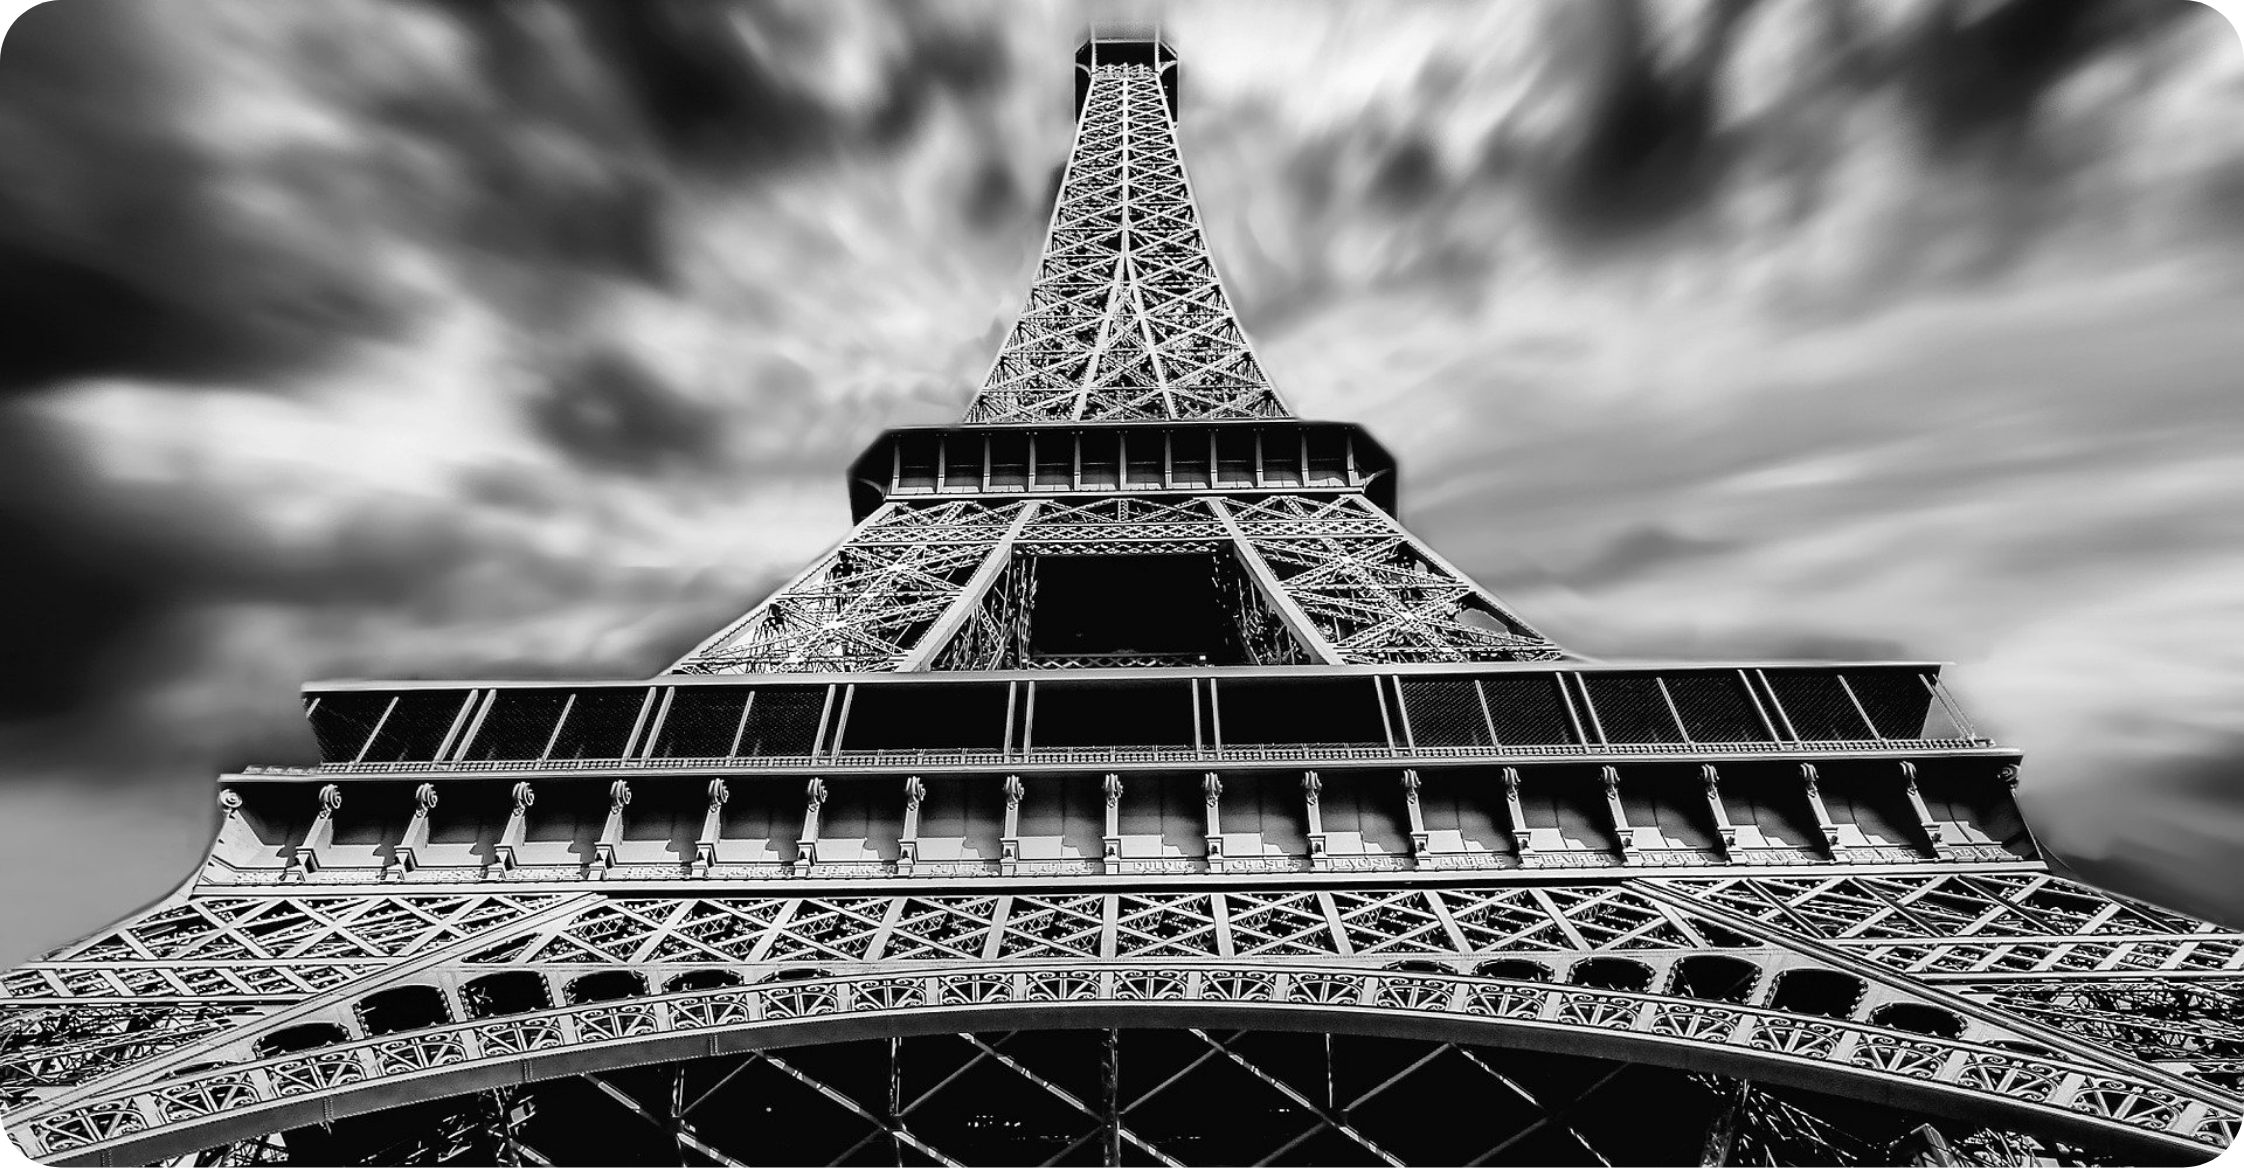
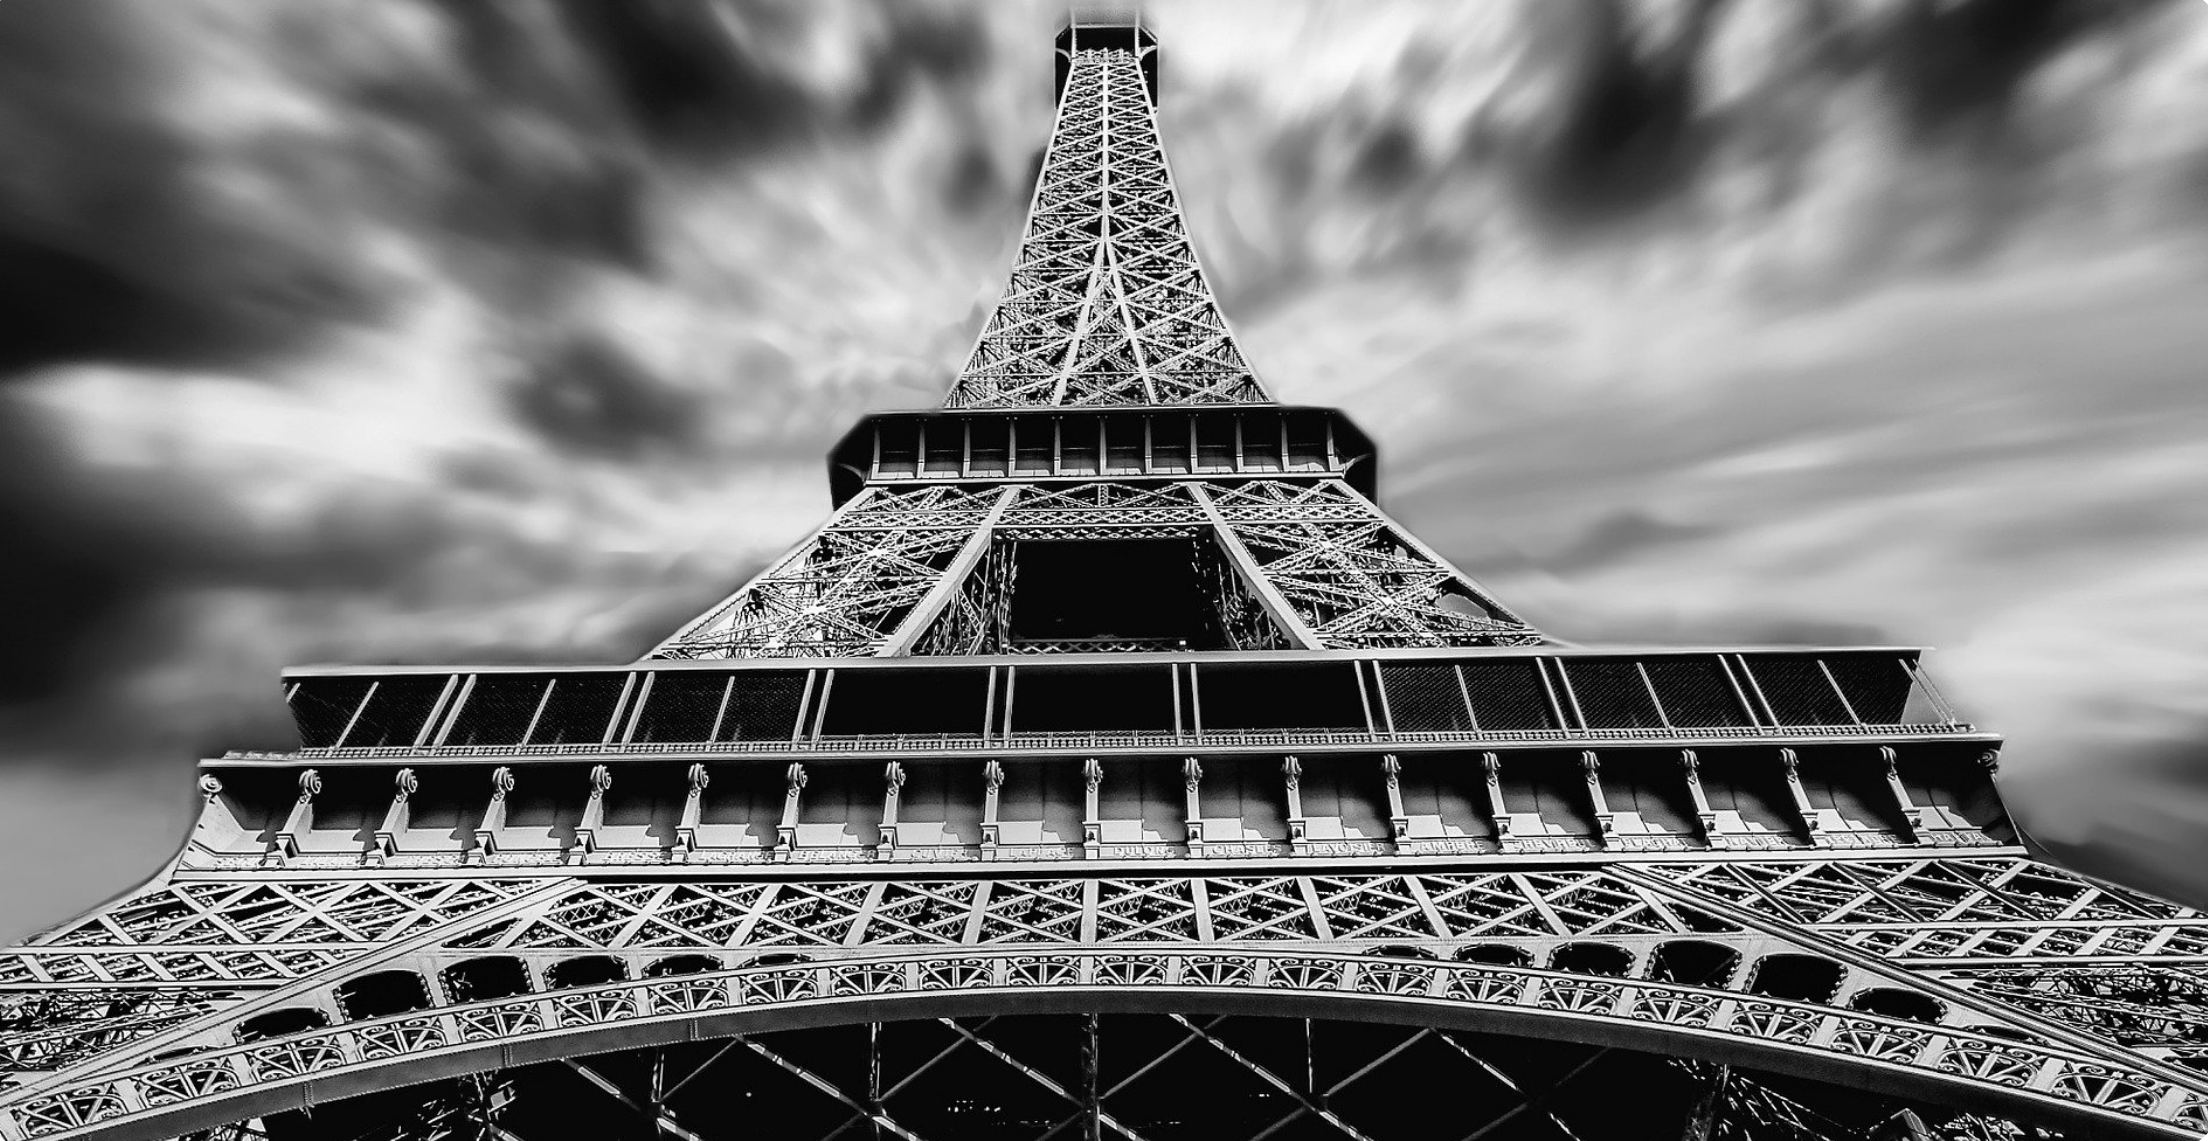
up

diff --git a/template/pwa/pages/map.html b/template/pwa/pages/map.html
@@ -57,7 +57,130 @@
 			<img src="../images/bus.png" alt=""  height="90%" style="margin-top: 1.6%;" />
 		</div>
 		<div id="map">
-			<object type="text/html" data="loc.html" width="100%" height="100%" ></object>
+			div id="map">
+      </div>
+      <script>
+        var map, infoWindow;
+        var myStyles =[
+        {
+          featureType: "poi",
+          elementType: "labels",
+          stylers: [
+          { visibility: "off" }
+          ]
+        }
+        ];
+      
+        function initMap() {
+          map = new google.maps.Map(document.getElementById('map'), {
+            center: {lat: -34.397, lng: 150.644},
+            zoom: 18,
+            maxZoom: 18,
+            minZoom : 18,
+            disableDefaultUI: true,
+            draggable : false,
+            scrollwheel: false,
+            styles: myStyles,  
+          });
+        
+          infoWindow = new google.maps.InfoWindow;
+          // Try HTML5 geolocation.
+          if (navigator.geolocation) {
+            navigator.geolocation.watchPosition(function(position) {
+              var pos = {
+                lat: position.coords.latitude,
+                lng: position.coords.longitude
+              };
+
+              var marker = new google.maps.Marker({
+                position: pos,
+                map: map,
+                title: '',
+               
+                icon: {
+		                url: "../images/icon-bus.png",
+		                scaledSize: new google.maps.Size(64, 64),
+	              }
+              });
+              // <----------------------------------------------------------------------------->
+              function autoUpdate() {
+                navigator.geolocation.getCurrentPosition(function(position) { 
+                  var newPoint = new google.maps.LatLng(position.coords.latitude,position.coords.longitude);
+ 
+                  if (marker) {
+                    // Si le marqueur existe déjà, je le déplace simplement
+                    marker.setPosition(newPoint);
+                  }
+                  else {
+                    // Si le marqueur n'existe pas, je le créé
+                    marker = new google.maps.Marker({
+                      position: newPoint,
+                      map: map,
+                    });
+                  }
+ 
+                  // Je centre la carte sur ma nouvelle position
+                  map.setCenter(newPoint);
+                });
+ 
+                // J'appelle ma fonction autoUpdate() toutes les 1 seconde
+                setTimeout(autoUpdate, 1000);
+              }
+ 
+              autoUpdate();
+ 
+              // <----------------------------------------------------------------------------->
+
+              map.setCenter(pos);
+            }, 
+            function() {
+              handleLocationError(true, infoWindow, map.getCenter());
+            });
+    
+          } else {
+            // Browser doesn't support Geolocation
+            handleLocationError(false, infoWindow, map.getCenter());
+          }
+          var marker = new google.maps.Marker({
+            position:{lat:48.9256271,lng:2.2089721},
+            map: map,
+           
+            icon: {
+		                url: "../images/icon-q.png",
+		                scaledSize: new google.maps.Size(104, 128),
+	              }
+            
+          });
+          marker.addListener('click',function() {
+            window.location.href = 'question.html';
+          })
+
+		  var marker = new google.maps.Marker({
+            position:{lat:48.9246239,lng:2.2064836},
+            map: map,
+           
+            icon: {
+		                url: "../images/icon-q.png",
+		                scaledSize: new google.maps.Size(104, 128),
+	              }
+            
+          });
+          marker.addListener('click',function() {
+            window.location.href = 'question.html';
+          })
+        }
+
+        function handleLocationError(browserHasGeolocation, infoWindow, pos) {
+          infoWindow.setPosition(pos);
+          infoWindow.setContent(browserHasGeolocation ?
+           'Error: The Geolocation service failed.' :
+            'Error: Your browser doesn\'t support geolocation.');
+          infoWindow.open(map);
+        }
+      </script>
+
+      <script async defer src="https://maps.googleapis.com/maps/api/js?key=AIzaSyBvgE12Re3UeundWgP23srDEVh-WrUs3bM&callback=initMap"></script>
+      <script src="../js/main.js"></script>
 		</div>
 		<!-- js -->
 		<script type="text/javascript" src="../js/jquery-2.1.4.min.js"></script>

diff --git a/template/pwa/pages/classement.html b/template/pwa/pages/classement.html
@@ -14,7 +14,7 @@
 		<!-- Meta tag Keywords -->
 
 		<!-- css files -->
-		<link rel="stylesheet" href="../css/style-rep.css" type="text/css" media="all" /> <!-- Style-CSS --> 
+		<link rel="stylesheet" href="../css/style-class.css" type="text/css" media="all" /> <!-- Style-CSS --> 
 		<link rel="stylesheet" href="../css/font-awesome.css"> <!-- Font-Awesome-Icons-CSS -->
 		<link href="../css/popup-box.css" rel="stylesheet" type="text/css" media="all" /><!-- //popup css -->
 		<link rel="stylesheet" href="/s/jquery.countdown.css" /><!-- //countdown css -->
@@ -40,24 +40,38 @@
 
 	</head>
 	<body>
-		<div class="box">
+		
 		<!-- main -->
 
-		<div class="main">
-            <h1>Bonne réponse</h1>
-            <img src="../images/100pts.png" style="width: 25%;"/><br><br>
-            <img src="../images/bon.png" style="width: 10%;"/>
-            <div class="next">
-				<br><br><br>
-                <a href="pages/concept.html"><input type="button" value="suivant"></a>
+		<div class="log">
+			<img src="../images/marker.png" width="40%"/>
+        </div>
+        <div class="text-classement">
+			<br><h1>Classement</h1>
+        </div>
+        <div class="classement">
+            <div class="premier">
+
             </div>
-		</div>
+            <div class="reste">
+                <div class="deuxieme">
+
+                </div>
+                <div class="troisieme">
+
+                </div>
+                <div class="quartieme">
+
+                </div>
+
+            </div>
+        </div>
 		<!-- //main-->
 
 		<!-- js -->
 		<script type="text/javascript" src="js/jquery-2.1.4.min.js"></script>
 		<!-- //js -->
 		<script src="js/main.js"></script>
-	</div>
+	
 	</body>
 </html>

diff --git a/template/pwa/css/style-class.css b/template/pwa/css/style-class.css
@@ -79,7 +79,7 @@ a:hover{
 /*--main--*/
 /*--header start here--*/
 body {
-    background-image: url("../images/Escape_game2.jpg");
+    background-image: url("../images/eiffel-tower-4.png");
     background-size: cover;
     -webkit-background-size: cover;
     -moz-background-size: cover;
@@ -195,7 +195,7 @@ ul.social li .fa-google-plus:hover {
     padding: 2em 0em;
 }
  h1 {
-    color: #EAEAEA;
+    color: #E10F8E;
     font-size: 3vw;
     font-weight: 300;
     text-transform: uppercase;
@@ -789,3 +789,66 @@ input[type="email"] {
     background: #E10F8E;
 }
 
+.log{
+    width: 10%;
+    height: 10%;
+    
+    text-align: center;
+    margin-top: 1%;
+}
+
+.text-classement{
+width: 25%;
+height: 10%;
+background-color: black;
+margin-top: 1%;
+text-align: center;
+}
+
+.classement{
+    background-color: chartreuse;
+    width: 100%;
+    height: 70%;
+    margin-top: 2%;
+}
+
+.premier{
+    background-color: darkblue;
+    width: 42%;
+    height: 100%;
+    margin-left: 3%;
+    float: left;
+}
+
+.reste{
+    background-color: red;
+    width: 55%;
+    height: 100%;
+    float: right;
+}
+
+.deuxieme{
+    background-color: royalblue;
+    width: 30%;
+    height: 90%;
+    margin-top: 3%;
+    margin-left: 3%;
+    float: left;
+}
+.troisieme{
+    background-color: rgb(90, 23, 81);
+    width: 30%;
+    height: 90%;
+    margin-top: 3%;
+    margin-left: 3%;
+    float: left;
+}
+
+.quartieme{
+    background-color: rgb(90, 23, 81);
+    width: 30%;
+    height: 90%;
+    margin-top: 3%;
+    margin-left: 3%;
+    float: left;
+}

diff --git a/template/pwa/pages/loc.html b/template/pwa/pages/loc.html
@@ -91,6 +91,19 @@
             // Browser doesn't support Geolocation
             handleLocationError(false, infoWindow, map.getCenter());
           }
+          var marker = new google.maps.Marker({
+            position:{lat:48.9256271,lng:2.2089721},
+            map: map,
+           
+            icon: {
+		                url: "../images/icon-q.png",
+		                scaledSize: new google.maps.Size(104, 128),
+	              }
+            
+          });
+          marker.addListener('click',function() {
+            window.location.href = 'question.html';
+          })
         }
 
         function handleLocationError(browserHasGeolocation, infoWindow, pos) {

diff --git a/template/pwa/pages/mauvaise-rep.html b/template/pwa/pages/mauvaise-rep.html
@@ -44,9 +44,9 @@
 		<!-- main -->
 
 		<div class="main">
-            <h1>Bonne réponse</h1>
-            <img src="../images/100pts.png" style="width: 25%;"/><br><br>
-            <img src="../images/bon.png" style="width: 10%;"/>
+            <h1>mauvaise réponse</h1>
+            <img src="../images/0pts.png" style="width: 25%;"/><br><br>
+            <img src="../images/no.png" style="width: 10%;"/>
             <div class="next">
 				<br><br><br>
                 <a href="pages/concept.html"><input type="button" value="suivant"></a>
